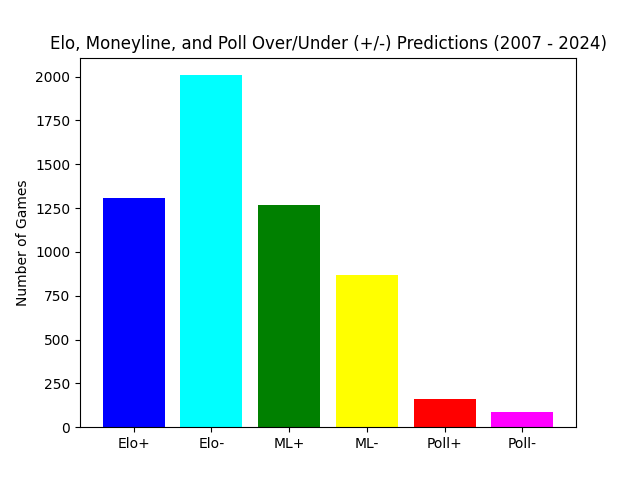
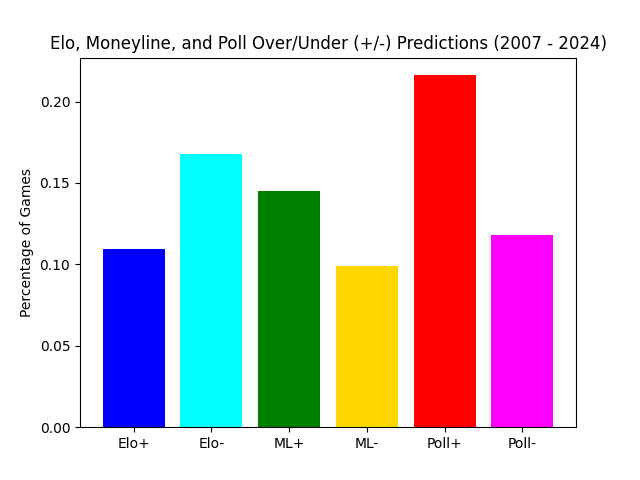
added more adjusted elo visualizations

diff --git a/accuracy/src/accuracy/OUpredictionVisualizationAdjusted.py b/accuracy/src/accuracy/OUpredictionVisualizationAdjusted.py
@@ -1,6 +1,6 @@
 import accuracyFunction
+import adjustedEloAccuracyFunction
 import matplotlib.pyplot as plt
-import csv
 
 seasons = []
 eloOver = []
@@ -10,7 +10,12 @@ eloUnder = []
 moneylineUnder = []
 pollUnder = []
 
-outList = [["method", "season", "accuracy", "total", "over", "under"]]
+ae43Over = []
+ae43Under = []
+ae73Over = []
+ae73Under = []
+ae88Over = []
+ae88Under = []
 
 top25 = list(range(1,26))
 
@@ -21,9 +26,9 @@ for season in range(2007, 2024):
     moneyline_rate = accuracyFunction.getAccuracy("m", [season],[], [], [], top25, top25, '','','','')
     poll_rate = accuracyFunction.getAccuracy("p", [season],[], [], [], top25, top25, '','','','')
 
-    outList.append(["e", season] + list(elo_rate))
-    outList.append(["m", season]  + list(moneyline_rate))
-    outList.append(["p", season] + list(poll_rate))
+    ae43 = adjustedEloAccuracyFunction.getAccuracy([season],[],[],[],[],[],'','','','',43)
+    ae73 = adjustedEloAccuracyFunction.getAccuracy([season],[],[],[],[],[],'','','','',73)
+    ae88 = adjustedEloAccuracyFunction.getAccuracy([season],[],[],[],[],[],'','','','',88)
 
     if elo_rate == (0, 0,0,0):
         eloOver.append(None)
@@ -46,6 +51,30 @@ for season in range(2007, 2024):
         pollOver.append(float(poll_rate[2])/float(poll_rate[1]))
         pollUnder.append(float(poll_rate[3])/float(poll_rate[1]))
 
+
+    if ae43 == (0, 0,0,0):
+        ae43Over.append(None)
+        ae43Under.append(None)
+    else:
+        ae43Over.append(float(ae43[2])/float(ae43[1]))
+        ae43Under.append(float(ae43[3])/float(ae43[1]))
+
+    if ae73 == (0, 0,0,0):
+        ae73Over.append(None)
+        ae73Under.append(None)
+    else:
+        ae73Over.append(float(ae73[2])/float(ae73[1]))
+        ae73Under.append(float(ae73[3])/float(ae73[1]))
+
+    if ae88 == (0, 0,0,0):
+        ae88Over.append(None)
+        ae88Under.append(None)
+    else:
+        ae88Over.append(float(ae88[2])/float(ae88[1]))
+        ae88Under.append(float(ae88[3])/float(ae88[1]))
+
+
+
 plt.plot(seasons, eloOver, color="blue", label = "Elo+")
 plt.plot(seasons, moneylineOver, color="green", label = "ML+")
 plt.plot(seasons, pollOver, color="red", label = "Poll+")
@@ -54,17 +83,19 @@ plt.plot(seasons, eloUnder, color="cyan", label = "Elo-")
 plt.plot(seasons, moneylineUnder, color="gold", label = "ML-")
 plt.plot(seasons, pollUnder, color="magenta", label = "Poll-")
 
+plt.plot(seasons, ae43Over, color = 'navy', label = 'AE43+')
+plt.plot(seasons, ae43Under, color = 'steelblue', label = 'AE43-')
+plt.plot(seasons, ae73Over, color = 'darkblue', label = 'AE73+')
+plt.plot(seasons, ae73Under, color = 'skyblue', label = 'AE73-')
+plt.plot(seasons, ae88Over, color = 'midnightblue', label = 'AE88+')
+plt.plot(seasons, ae88Under, color = 'cornflowerblue', label = 'AE88-')
+
+
 plt.xlabel('Season')
 plt.ylabel('Percentage of Games')
-plt.title('Elo, ML, and Poll Over/Under (+/-) Predictions Top 25 Teams (2007 - 2024)')
+plt.title('Elo, Adjusted Elo, ML, and Poll Over/Under (+/-) Predictions Top 25 Teams (2007 - 2024)')
 plt.grid(True)
 plt.legend()
 
-plt.savefig('accuracy/visualizations/OUemp25.png')
+plt.savefig('accuracy/visualizations/OUemp25Adjusted.png')
 plt.show()
-
-
-with open("accuracy/visualization_data/OUpredictionVisualization.csv", 'w', newline='') as file:
-    writer = csv.writer(file)
-    writer.writerows(outList)
-

diff --git a/accuracy/src/accuracy/emAdjustedFull.py b/accuracy/src/accuracy/emAdjustedFull.py
@@ -1,26 +1,24 @@
 import adjustedEloAccuracyFunction
 import accuracyFunction
 import matplotlib.pyplot as plt
-import csv
 
 seasons = []
 elo_accuracy = []
 moneyline_accuracy = []
 adjusted_elo_accuracy = []
 closest_accuracy = []
+evenest_accuracy = []
 
-outList = [["method", "season", "accuracy", "total", "over", "under"]]
 
 for season in range(2007, 2024):
     seasons.append(season)
 
     adjusted_elo_rate = adjustedEloAccuracyFunction.getAccuracy([season], [], [], [], [], [],"","","","",73)
     closest_rate = adjustedEloAccuracyFunction.getAccuracy([season], [], [], [], [], [],"","","","",88)
+    evenest_rate = adjustedEloAccuracyFunction.getAccuracy([season], [],[],[],[],[], '','','','',43)
     elo_rate = accuracyFunction.getAccuracy("e", [season], [], [], [], [], [], "","","","")
     moneyline_rate = accuracyFunction.getAccuracy("m", [season], [], [], [], [], [], "","","","")
 
-    outList.append(["e", season] + list(adjusted_elo_rate))
-    outList.append(["m", season] + list(moneyline_rate))
 
     if elo_rate == (0, 0, 0, 0):
         elo_accuracy.append(None)
@@ -41,6 +39,11 @@ for season in range(2007, 2024):
         closest_accuracy.append(None)
     else:
         closest_accuracy.append(float(closest_rate[0]))
+
+    if evenest_rate == (0,0,0,0):
+        evenest_accuracy.append(None)
+    else:
+        evenest_accuracy.append(float(evenest_rate[0]))
     
         
 
@@ -48,6 +51,7 @@ plt.plot(seasons, elo_accuracy, color="blue", label = "Elo")
 plt.plot(seasons, moneyline_accuracy, color="green", label = "Moneyline")
 plt.plot(seasons, adjusted_elo_accuracy, color = "black", label = "Highest Avg (+73)")
 plt.plot(seasons, closest_accuracy, color = "purple", label = "Closest to ML (+88)")
+plt.plot(seasons, evenest_accuracy, color = 'darkorange', label = "Evenest (+43)")
 
 
 
@@ -59,9 +63,3 @@ plt.grid(True)
 
 plt.savefig('accuracy/visualizations/emAdjustedFull.png')
 plt.show()
-
-
-with open("accuracy/visualization_data/emAdjustedFull.csv", 'w', newline='') as file:
-    writer = csv.writer(file)
-    writer.writerows(outList)
-

diff --git a/accuracy/src/accuracy/OUpredictionTotalAdjusted.py b/accuracy/src/accuracy/OUpredictionTotalAdjusted.py
@@ -1,0 +1,55 @@
+import accuracyFunction
+import adjustedEloAccuracyFunction
+import matplotlib.pyplot as plt
+import csv
+
+seasons = list(range(2007, 2024))
+
+outList = [["method", "accuracy", "total", "over", "under"]]
+
+e = accuracyFunction.getAccuracy("e", seasons, [], [], [], [], [], '','','','')
+m = accuracyFunction.getAccuracy("m", seasons, [], [], [], [], [], '','','','')
+p = accuracyFunction.getAccuracy("p", seasons, [], [], [], [], [], '','','','')
+
+ae73 = adjustedEloAccuracyFunction.getAccuracy(seasons, [],[],[],[],[],'','','','', 73)
+ae88 = adjustedEloAccuracyFunction.getAccuracy(seasons, [],[],[],[],[],'','','','',88)
+ae43 = adjustedEloAccuracyFunction.getAccuracy(seasons, [],[],[],[],[],'','','','',43)
+
+outList.append(["e"] + list(e))
+outList.append(["m"] + list(m))
+outList.append(["p"] + list(p))
+
+eloOver = e[2]/e[1]
+eloUnder = e[3]/e[1]
+moneylineOver = m[2]/m[1]
+moneylineUnder = m[3]/m[1]
+pollUnder = p[2]/p[1]
+pollOver = p[3]/p[1]
+
+ae73Over = ae73[2]/ae73[1]
+ae73Under = ae73[3]/ae73[1]
+ae88Over = ae88[2]/ae88[1]
+ae88Under = ae88[3]/ae88[1]
+ae43Over = ae43[2]/ae43[1]
+ae43Under = ae43[3]/ae43[1]
+
+
+categories = ["Elo+","Elo-","ML+","ML-","Poll+","Poll-", "AE73+", 'AE73-', 'AE88+', 'AE88-', 'AE43+', 'AE43-']
+values = [eloOver, eloUnder, moneylineOver,moneylineUnder,pollOver,pollUnder, ae73Over, ae73Under, ae88Over, ae88Under, ae43Over, ae43Under]
+colors = ['blue','cyan','green','gold','red','magenta', 'navy','skyblue','royalblue','deepskyblue', 'midnightblue', 'steelblue']
+
+
+plt.bar(categories, values, color=colors)
+
+plt.ylabel('Percentage of Games')
+plt.title('Elo, Adjusted Elo, ML, and Poll Over/Under (+/-) Predictions (2007 - 2024)')
+
+plt.savefig('accuracy/visualizations/OUempTotal.png')
+
+plt.show()
+
+
+with open("accuracy/visualization_data/OUpredictionTotalAdjusted.csv", 'w', newline='') as file:
+    writer = csv.writer(file)
+    writer.writerows(outList)
+

diff --git a/accuracy/src/accuracy/totalAccuracyAdjusted.py b/accuracy/src/accuracy/totalAccuracyAdjusted.py
@@ -1,0 +1,37 @@
+import accuracyFunction
+import adjustedEloAccuracyFunction
+import matplotlib.pyplot as plt
+
+seasons = list(range(2007, 2024))
+
+e = accuracyFunction.getAccuracy("e", seasons, [],[], [], [], [], '','','','')
+m = accuracyFunction.getAccuracy("m", seasons, [],[], [], [], [], '','','','')
+p = accuracyFunction.getAccuracy("p", seasons, [],[], [], [], [], '','','','')
+
+elo_accuracy = e[0]
+moneyline_accuracy = m[0]
+poll_accuracy = p[0]
+
+e25 = adjustedEloAccuracyFunction.getAccuracy(seasons, [],[],[],[],[],'','','','',25)[0]
+e43 = adjustedEloAccuracyFunction.getAccuracy(seasons, [],[],[],[],[],'','','','',43)[0]
+e73 = adjustedEloAccuracyFunction.getAccuracy(seasons, [],[],[],[],[],'','','','',73)[0]
+e88 = adjustedEloAccuracyFunction.getAccuracy(seasons, [],[],[],[],[],'','','','',88)[0]
+e150 = adjustedEloAccuracyFunction.getAccuracy(seasons, [],[],[],[],[],'','','','',150)[0]
+
+
+categories = ["ML","Elo", "AE25", "AE43", "AE73", "AE88", "AE150", "Poll"]
+values = [moneyline_accuracy, elo_accuracy, e25, e43, e73, e88, e150, poll_accuracy]
+colors = ['green', 'blue', "navy", 'steelblue', 'royalblue', 'skyblue', 'cornflowerblue','red']
+
+plt.bar(categories, values, color=colors)
+
+plt.ylabel('Total Accuracy Rate')
+plt.title('Elo, ML, Adjusted Elo, Adjusted ML, and Poll Total Accuracy Rates (2007 - 2024)')
+
+plt.ylim(60, 80)
+
+plt.savefig('accuracy/visualizations/totalWithAdjusted.png')
+
+plt.show()
+
+

diff --git a/accuracy/src/accuracy/OUpredictionTotal.py b/accuracy/src/accuracy/OUpredictionTotal.py
@@ -14,21 +14,21 @@ outList.append(["e"] + list(e))
 outList.append(["m"] + list(m))
 outList.append(["p"] + list(p))
 
-eloOver = e[2]
-eloUnder = e[3]
-moneylineOver = m[2]
-moneylineUnder = m[3]
-pollUnder = p[2]
-pollOver = p[3]
+eloOver = e[2]/e[1]
+eloUnder = e[3]/e[1]
+moneylineOver = m[2]/m[1]
+moneylineUnder = m[3]/m[1]
+pollUnder = p[2]/p[1]
+pollOver = p[3]/p[1]
 
 categories = ["Elo+","Elo-","ML+","ML-","Poll+","Poll-"]
 values = [eloOver, eloUnder, moneylineOver,moneylineUnder,pollOver,pollUnder]
-colors = ['blue','cyan','green','yellow','red','magenta']
+colors = ['blue','cyan','green','gold','red','magenta']
 
 
 plt.bar(categories, values, color=colors)
 
-plt.ylabel('Number of Games')
+plt.ylabel('Percentage of Games')
 plt.title('Elo, Moneyline, and Poll Over/Under (+/-) Predictions (2007 - 2024)')
 
 plt.savefig('accuracy/visualizations/OUempTotal.png')

diff --git a/accuracy/src/accuracy/determineHomeEloBoost.py b/accuracy/src/accuracy/determineHomeEloBoost.py
@@ -53,7 +53,29 @@ for i in range(0, 500):
         maxBoost = i
 
 
+def getOverUnderDiff(boost):
+    seasons = list(range(2007, 2024))
+    e = adjustedEloAccuracyFunction.getAccuracy(seasons, [],[],[],[],[],'','','','', boost)
+    overPercentage = float(e[2])/float(e[1])
+    underPercentage = float(e[3])/float(e[1])
+
+    return abs(overPercentage - underPercentage)
+
+minDiff = getOverUnderDiff(500)
+mostEven = 500
+
+for i in range(0, 500):
+    diff = getOverUnderDiff(i)
+    if diff < minDiff:
+        minDiff = diff
+        mostEven = i
+
+
+# closest to ML
 print(minBoost)
+
+# highest accuracy
 print(maxBoost)
 
-
+# most even over under predictions
+print(mostEven)

diff --git a/accuracy/src/accuracy/totalAccuracy.py b/accuracy/src/accuracy/totalAccuracy.py
@@ -26,7 +26,7 @@ colors = ['green', 'blue', 'red']
 plt.bar(categories, values, color=colors)
 
 plt.ylabel('Total Accuracy Rate')
-plt.title('Elo, Moneyline, and Poll Total Accuracy Rates of All Teams (2007 - 2019)')
+plt.title('Elo, Moneyline, and Poll Total Accuracy Rates of All Teams (2007 - 2024)')
 
 plt.ylim(50, 80)
 
